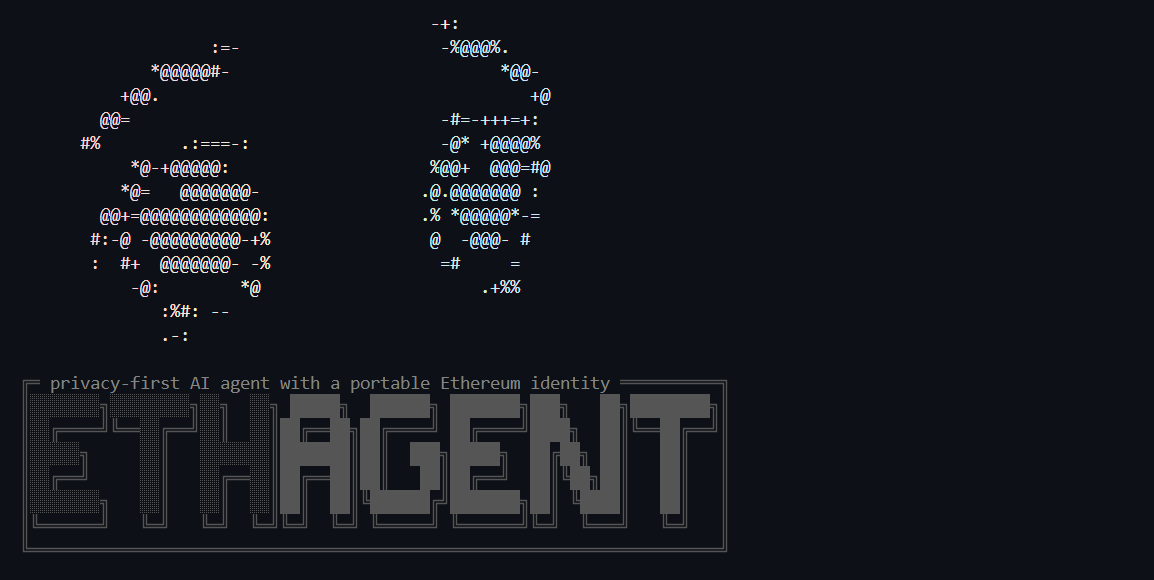
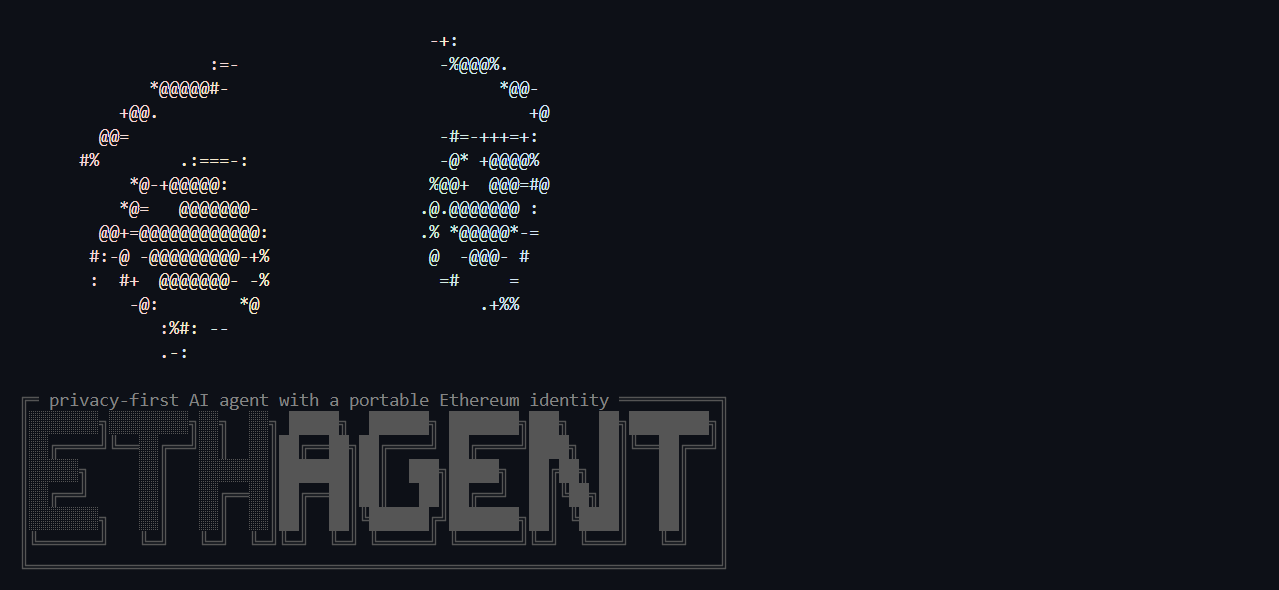
style: add padding around splash preview

diff --git a/src/cli/preview.tsx b/src/cli/preview.tsx
@@ -1,5 +1,5 @@
 import React from 'react'
-import { render } from 'ink'
+import { Box, render } from 'ink'
 import { BrandSplash } from '../ui/BrandSplash.js'
 
 /**
@@ -7,7 +7,11 @@ import { BrandSplash } from '../ui/BrandSplash.js'
  * in the top border, no technical details at the bottom, and exits.
  */
 export async function runPreviewCommand(): Promise<number> {
-  const instance = render(<BrandSplash />)
+  const instance = render(
+    <Box flexDirection="column" marginY={1}>
+      <BrandSplash />
+    </Box>,
+  )
   // Give Ink one tick to paint, then unmount cleanly.
   await new Promise<void>(resolve => setTimeout(resolve, 50))
   instance.unmount()
